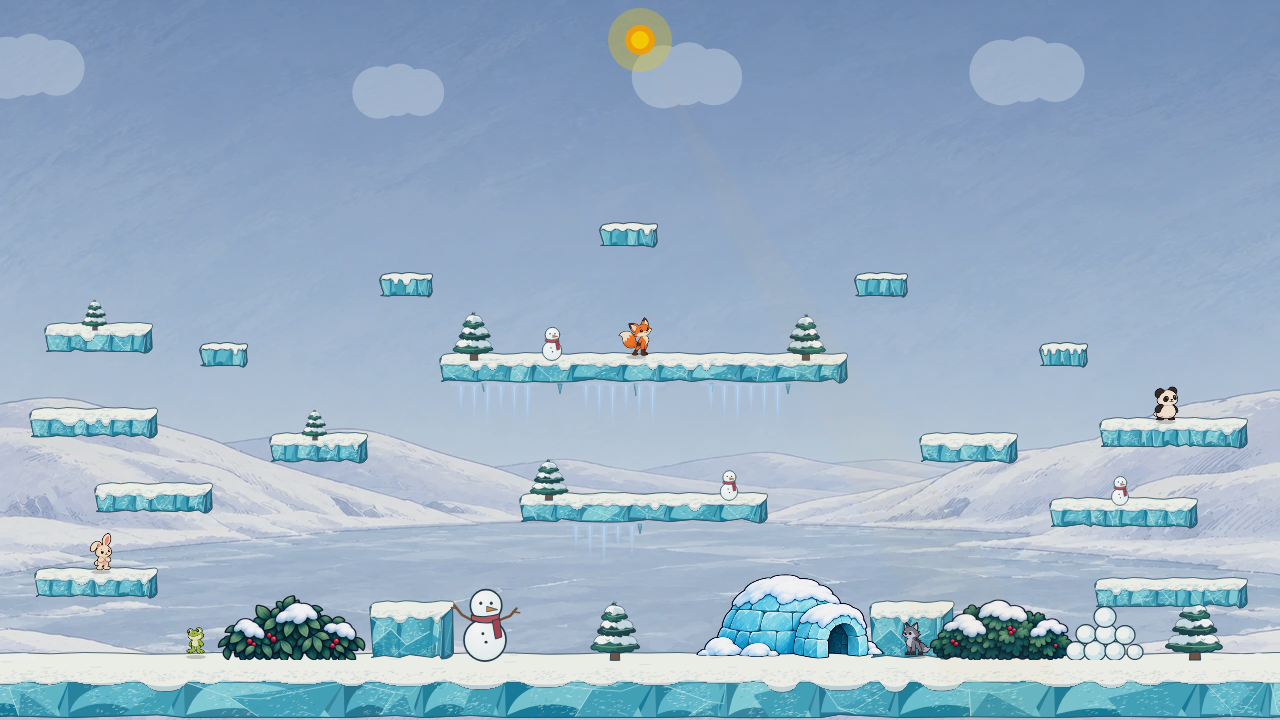
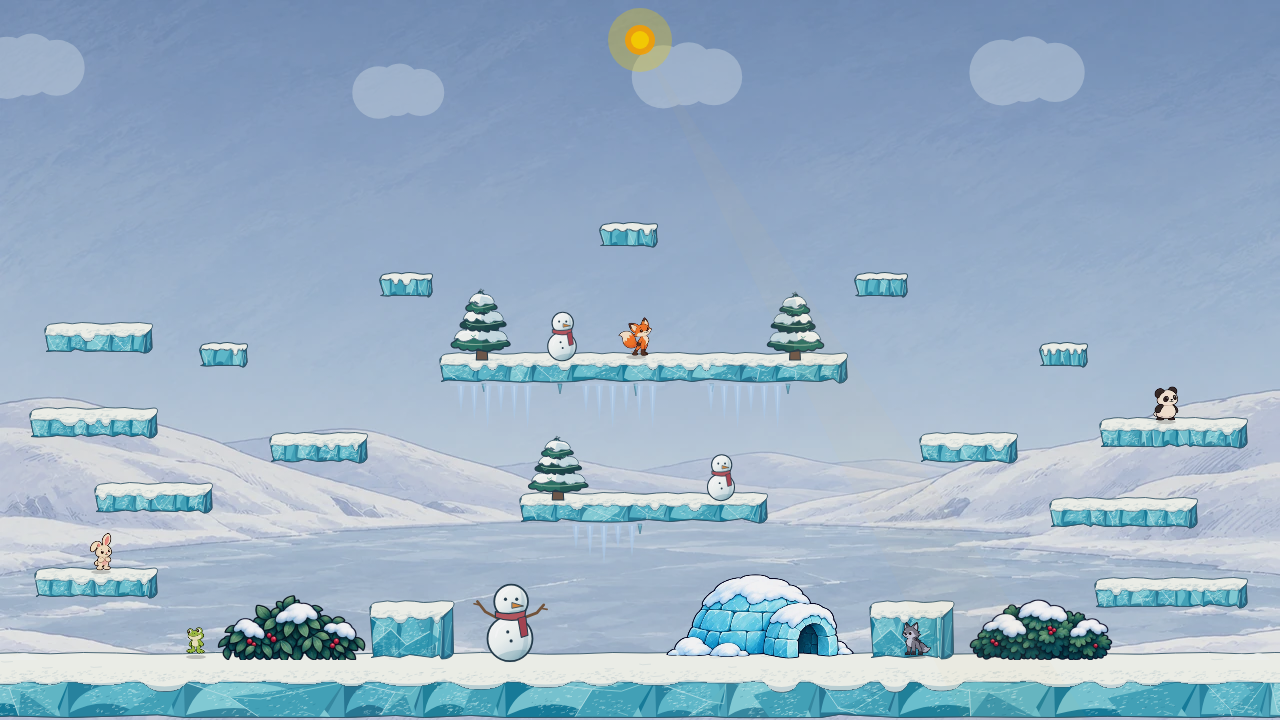
Shade winter snowmen and simplify prop layout

diff --git a/src/engine/arenas/packs/winterLakeRoundGroveProps.ts b/src/engine/arenas/packs/winterLakeRoundGroveProps.ts
@@ -33,14 +33,27 @@ function oval(ctx: Ctx2D, x: number, y: number, rx: number, ry: number, fill: st
 }
 
 function snowOval(ctx: Ctx2D, x: number, y: number, rx: number, ry: number): void {
-  const shade=ctx.createRadialGradient(x-rx*.42,y-ry*.55,2,x+rx*.28,y+ry*.12,rx*1.8);
+  const shade=ctx.createLinearGradient(x-rx*.65,y-ry*.85,x+rx*.7,y+ry*.9);
   shade.addColorStop(0,'#ffffff');
-  shade.addColorStop(.52,'#f0f8f7');
-  shade.addColorStop(1,'#a5cbd7');
+  shade.addColorStop(.42,'#f4f9f7');
+  shade.addColorStop(.76,'#d5e5e9');
+  shade.addColorStop(1,'#8fb6c3');
   ctx.beginPath(); ctx.ellipse(x,y,rx,ry,0,0,Math.PI*2);
   ctx.fillStyle=shade; ctx.fill();
+  ctx.save(); ctx.clip();
+  // A cool underside and side crescent give each ball volume at match scale.
+  ctx.beginPath();
+  ctx.ellipse(x+rx*.22,y+ry*.83,rx*.85,ry*.31,-.14,0,Math.PI*2);
+  ctx.fillStyle='rgba(104, 154, 170, .30)'; ctx.fill();
+  ctx.beginPath();
+  ctx.moveTo(x+rx*.48,y-ry*.82);
+  ctx.bezierCurveTo(x+rx*.93,y-ry*.28,x+rx*.95,y+ry*.53,x+rx*.36,y+ry*.91);
+  ctx.bezierCurveTo(x+rx*.72,y+ry*.23,x+rx*.65,y-ry*.42,x+rx*.48,y-ry*.82);
+  ctx.closePath(); ctx.fillStyle='rgba(91, 142, 161, .20)'; ctx.fill();
+  ctx.restore();
+  ctx.beginPath(); ctx.ellipse(x,y,rx,ry,0,0,Math.PI*2);
   ctx.strokeStyle=INK; ctx.lineWidth=1.6; ctx.stroke();
-  mark(ctx,[[x-rx*.58,y-ry*.1],[x-rx*.42,y-ry*.48],[x-rx*.06,y-ry*.68]],'#ffffff',1.4);
+  mark(ctx,[[x-rx*.64,y-ry*.08],[x-rx*.53,y-ry*.43],[x-rx*.18,y-ry*.70]],'#ffffff',1.5);
 }
 
 function mark(ctx: Ctx2D, points: readonly [number, number][], color: string, width: number): void {
@@ -237,15 +250,6 @@ function igloo(ctx: Ctx2D, x: number, baseY: number, width: number, height: numb
   ctx.restore();
 }
 
-function snowballs(ctx: Ctx2D, x: number, baseY: number): void {
-  const balls = [[-29,-9,10],[-10,-9,11],[10,-9,10],[30,-8,8],[-19,-26,10],[1,-26,11],[20,-25,10],[0,-43,11]] as const;
-  for (const [dx,dy,r] of balls) {
-    oval(ctx,x+dx,baseY+dy,r,r*.94,'#d6edf2',INK,1.2);
-    oval(ctx,x+dx-2,baseY+dy-2,r*.65,r*.6,SNOW);
-    mark(ctx,[[x+dx+r*.35,baseY+dy+2],[x+dx+r*.65,baseY+dy+4]],SNOW_SHADE,1);
-  }
-}
-
 function drift(ctx: Ctx2D, x: number, y: number, width: number): void {
   ctx.beginPath(); ctx.moveTo(x-width/2,y);
   ctx.bezierCurveTo(x-width*.38,y-8,x-width*.17,y-7,x,y-3);
@@ -266,42 +270,32 @@ export function drawRoundGroveBackground(ctx: Ctx2D, arena: Arena, iglooVariant:
   // The ground landmarks sit in open intervals between the ice cubes and
   // cover bushes. In the old layout, shelves obscured both the igloo and snowman.
   // The left ground stays open for the spawn and the first bush.
-  snowman(ctx,485,y,84,true);
-  tree(ctx,615,y,56,2);
+  snowman(ctx,510,y,90,true);
   const paintedIgloo = iglooVariant === 'blue-brick' ? getWinterPropArt().igloo : null;
-  if (paintedIgloo) ctx.drawImage(paintedIgloo,690,y-91,194,91);
-  else igloo(ctx,iglooVariant==='arched-door'?685:700,y,
+  if (paintedIgloo) ctx.drawImage(paintedIgloo,660,y-91,194,91);
+  else igloo(ctx,iglooVariant==='arched-door'?650:660,y,
     iglooVariant==='arched-door'?165:155,iglooVariant==='arched-door'?76:85,iglooVariant);
-  tree(ctx,1195,y,58,3);
 
   const upperBridge=floats.find(p=>p.width>=350);
   if(upperBridge) {
-    tree(ctx,upperBridge.x+34,upperBridge.y,46,4);
-    snowman(ctx,upperBridge.x+112,upperBridge.y,39);
-    tree(ctx,upperBridge.x+upperBridge.width-34,upperBridge.y,44,5);
+    tree(ctx,upperBridge.x+42,upperBridge.y,68,4);
+    snowman(ctx,upperBridge.x+122,upperBridge.y,57);
+    tree(ctx,upperBridge.x+upperBridge.width-45,upperBridge.y,65,5);
     for(let i=0;i<5;i++) icicle(ctx,upperBridge.x+44+i*76,upperBridge.y+upperBridge.height,8+(i%3)*2);
   }
   const lowerBridge=floats.find(p=>p.width>=200 && p.width<350);
   if(lowerBridge) {
-    tree(ctx,lowerBridge.x+29,lowerBridge.y,39,6);
-    snowman(ctx,lowerBridge.x+lowerBridge.width-31,lowerBridge.y,35);
+    tree(ctx,lowerBridge.x+38,lowerBridge.y,61,6);
+    snowman(ctx,lowerBridge.x+lowerBridge.width-39,lowerBridge.y,54);
     icicle(ctx,lowerBridge.x+lowerBridge.width*.5,lowerBridge.y+lowerBridge.height,10);
   }
-  // A few shelf accents give scale; the tiny steps stay clear for players.
-  for(const plat of floats) {
-    if(plat.width>=85 && plat.width<110 && plat.y<500 && plat.x<400) {
-      tree(ctx,plat.x+plat.width*.5,plat.y,29,8);
-    }
-    if(plat.width>=130 && plat.width<160 && plat.y>=500 && plat.y<550) {
-      snowman(ctx,plat.x+plat.width*.5,plat.y,34);
-    }
-  }
+  // Narrow shelves stay clear for jumping players; readable props live on
+  // the two broad platforms instead of repeating at miniature scale.
 }
 
 function paintGroundForeground(ctx: Ctx2D, arena: Arena): void {
   const y=arena.platforms[0].y;
-  bush(ctx,290,y,62,0); bush(ctx,1000,y,60,1);
-  snowballs(ctx,1105,y);
+  bush(ctx,290,y,62,0); bush(ctx,1040,y,60,1);
   drift(ctx,15,y,45); drift(ctx,1250,y,40);
 }
 

diff --git a/docs/mockups/winter-lake/render.ts b/docs/mockups/winter-lake/render.ts
@@ -169,7 +169,7 @@ if (query.has('cover')) {
   // Player coordinates are their left edge; center each silhouette in its bush.
   state.players[0].x = 272;
   state.players[0].y = 625;
-  state.players[3].x = 982;
+  state.players[3].x = 1022;
   state.players[3].y = 625;
 }
 renderer.warmSpriteCache(state.players.map(player => player.character.name));

diff --git a/docs/mockups/winter-props/README.md b/docs/mockups/winter-props/README.md
@@ -62,7 +62,13 @@ In the live game, the Canvas bushes still looked like Meadow foliage with snow s
 
 The images above are captures of the **production renderer** with the replacement assets loaded, at 1280 × 720. The original transparent [bush study](snow-bush-paint-study.png) and [igloo study](igloo-paint-study.png) are retained. [`prepare-runtime-art.mjs`](prepare-runtime-art.mjs) crops, downsizes, and WebP-encodes those sources to two 420 × 195 bush files and one 480 × 226 igloo file (about 86 KB combined). This is technical asset preparation; the painting itself is unaltered. [`capture-paint.mjs`](capture-paint.mjs) reproduces the scene captures.
 
-The foreground bushes still render **over** players. A first pass put an oversized green backing shape beneath each painting; that protruded beyond the leaf silhouette and looked like a separate patch. The paintings have dense, connected interior foliage, so the backing was removed and the visible leaves were aligned to the ground. The cover capture shows the characters hidden without the green patch. The selected igloo stays in the cleaned open ground interval. The menu and lobby prefetch the three files with Pearl; each render worker decodes its own copy before drawing Winter Lake. If an image fails, the previous Canvas bush or igloo draws instead. Production build, focused preload tests, Chromium smoke, and Winter Lake browser tests in both worker modes pass. Moving gameplay should still be reviewed by eye before merging.
+The foreground bushes still render **over** players. A first pass put an oversized green backing shape beneath each painting; that protruded beyond the leaf silhouette and looked like a separate patch. The paintings have dense, connected interior foliage, so the backing was removed and the visible leaves were aligned to the ground. The cover capture shows the characters hidden without the green patch. The selected igloo stays in the cleaned open ground interval. The menu and lobby prefetch the three files with Pearl; each render worker decodes its own copy before drawing Winter Lake. If an image fails, the previous Canvas bush or igloo draws instead. Production build, focused preload tests, Chromium smoke, and Winter Lake browser tests in both worker modes passed for this asset change. Moving gameplay should still be reviewed by eye before merging.
+
+### Snowman volume and final prop spacing
+
+The first playable painted replacement still left a dense row at ground level: two cover bushes, two trees, a snowball pile, the snowman, the igloo, and ice cubes nearly touched. The final layout keeps the two bushes as cover, one large snowman, and the igloo, but removes the ground trees and snowball pile. The igloo moves left into the open interval before the right ice cube; the right bush moves right so it no longer touches that cube. The small ledges are left empty. Props appear only on the two broad platforms, where trees and snowmen are now large enough to read against the characters without filling the jump lanes.
+
+The snowmen's body and head now use a stronger cool-side gradient, a clipped underside shadow, and a restrained side crescent. The shading stays inside the dark oval outline; it adds volume without making the snow look like blue ice. The [day](paint-replacement-day.png), [night](paint-replacement-night.png), and [cover](paint-replacement-cover.png) captures above reflect this final spacing and shading. This is a composition change only: platform collision, spawn points, hazard placement, and bush draw order are unchanged.
 
 Reproduce the implementation and igloo comparison captures with `node docs/mockups/winter-props/capture-round.mjs` while the worktree Vite server is running.
 

diff --git a/.claude/skills/visual-style/SKILL.md b/.claude/skills/visual-style/SKILL.md
@@ -34,6 +34,8 @@ The [Winter Lake bush and igloo study](../../../docs/mockups/winter-props/README
 
 Use a compact bitmap when a prop stays at a fixed size and position and its painterly surface carries the design. Keep the source study, record the crop and encoding step, and preload the runtime art in each canvas-owning worker. Render foreground cover over characters and verify that the painted interior hides them at native size. Do not put a broad solid backing behind a transparent bush: in Winter Lake it protruded as a green patch. If the painting has actual holes, repair or mask only those holes inside the leaf silhouette and recapture the cover test. Align the visible leaves, not the image's transparent padding, with the ground. Keep a Canvas fallback for missing optional art. Reserve vector or Canvas construction for geometry that changes size, such as platforms, or for simple shapes that survive a native-size scene check. This is a choice based on how the asset is used, not a universal preference for bitmaps.
 
+For arena prop placement, count the occupied intervals on the ground and broad platforms before adding details. Winter Lake's ground became busy when trees and snowballs filled the gaps between cover bushes, cubes, a snowman, and an igloo. Removing those accents gave the required props room to read. Do not compensate by sprinkling miniature versions on narrow ledges; leave small jump surfaces clear and put fewer, larger props on broad platforms. Recheck the composition with actual characters and at night. For snow figures, a white fill with an outline stays flat at game scale; use a restrained cool-side gradient and clipped underside shadow, then verify the same shading on every displayed size.
+
 ### Pickups must read as objects in motion
 
 Use the [carrot pickup comparison and angle studies](../../../docs/mockups/carrot-pickup/README.md) when drawing small collectibles. At match scale, the carrot reads through broad orange shoulders, a tapered root, and leaves visibly attached to its crown; small stripes alone did not make the older sideways oval feel like a vegetable. A fully upright root looked too much like a planted decoration, so compare gentle, chunky, and longer diagonal shapes inside the running arena before choosing a tilt. The selected long-root version uses a pronounced diagonal and an extended, narrow taper while retaining enough orange mass to read at game scale. A dark continuous edge and restrained light/dark planes separate it from nearby flowers and terrain. Keep the pickup's short spawn cue and gentle bob distinct from the static scenery, but avoid a blurred halo or a large effect that overwhelms the 32 px characters. Review the same pickup over different arena palettes and at night. Its artwork, particle cues, and visual bounds should support the existing collision target and foreground cover order; changing the art must not silently change collection behavior.
